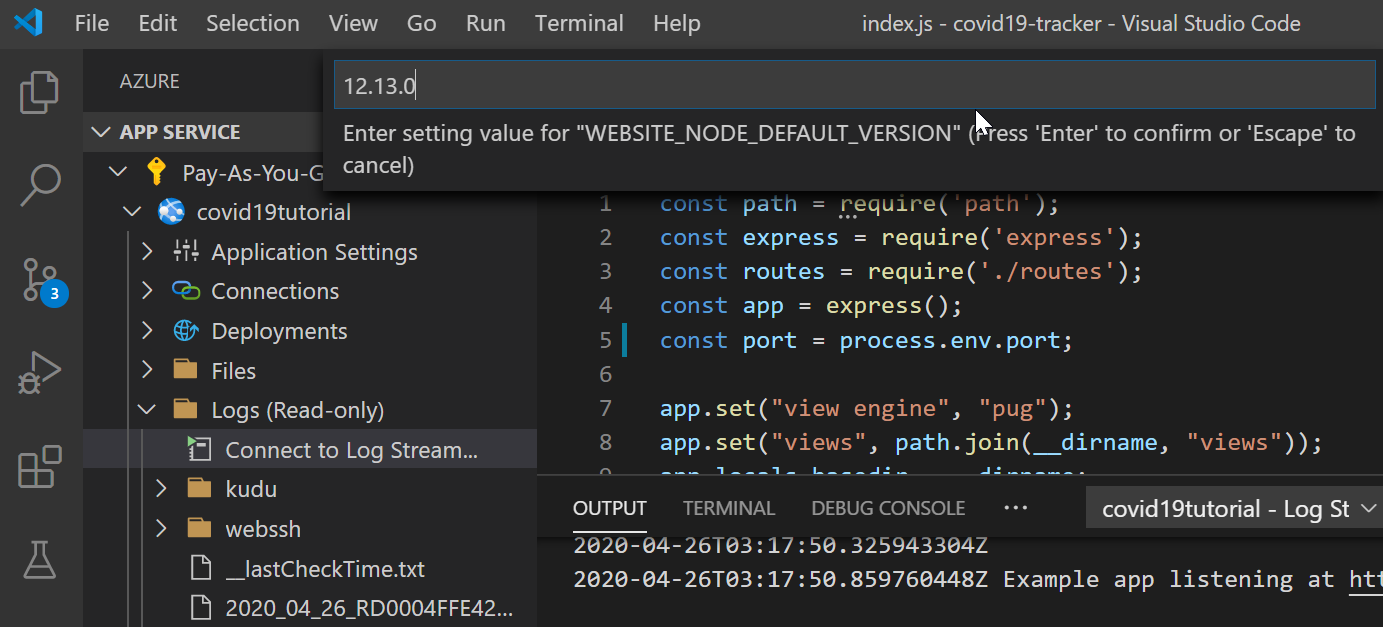
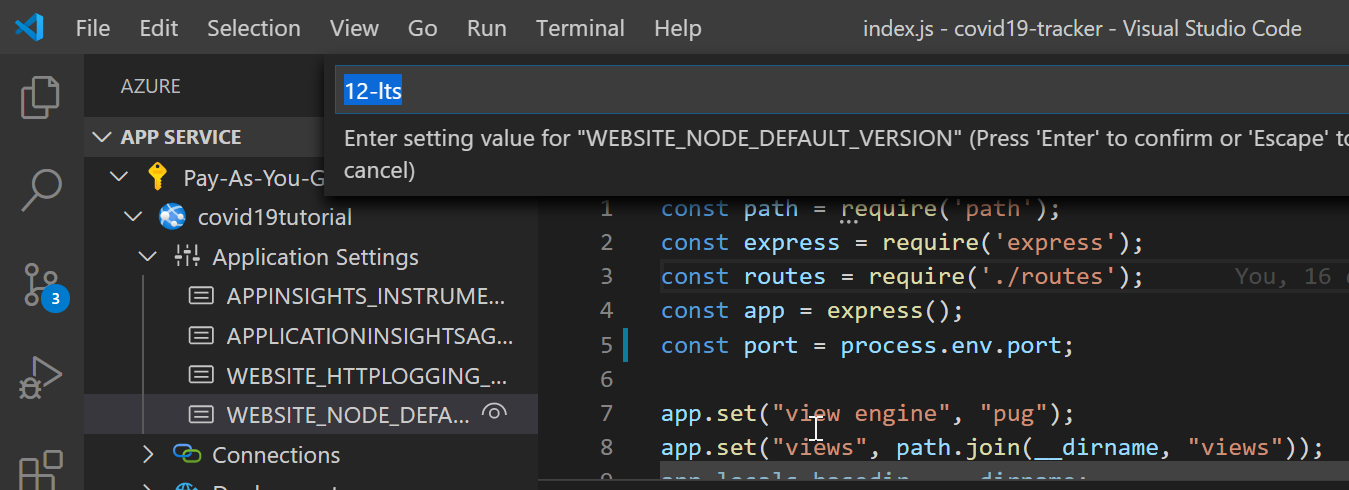
Update Blog “2020-04-08-get-the-drop-on-the-cloud-nodejs-and-azure”

diff --git a/src/pages/blog/2020-04-08-get-the-drop-on-the-cloud-nodejs-and-azure.md b/src/pages/blog/2020-04-08-get-the-drop-on-the-cloud-nodejs-and-azure.md
@@ -59,7 +59,11 @@ Since Azure's App Service uses dynamically configured Docker containers, we cann
 
 If you started the local server, stop it (Ctrl+C).
 
-Open the `src/index.js` file and change line 5 to `const port = process.env.PORT` and save your changes.
+Open the `src/index.js` file and change line 5 to 
+```
+const port = process.env.PORT
+```
+and save your changes.
 
 ## Deploying to Azure App Service
 
@@ -90,7 +94,7 @@ When deployment has completed, we should add an Application Setting that is requ
 * Expand your subscription, Web app, and right-click on Application settings
 * Choose *Add New Setting*
 * For your setting key, enter *WEBSITE_NODE_DEFAULT_VERSION*
-* For your setting value, enter *12.13.0*
+* For your setting value, enter *12-lts*
 
 ![Add WEBSITE_NODE_DEFAULT_VERSION application setting](/img/add-application-setting.png "Add WEBSITE_NODE_DEFAULT_VERSION application setting")
 
@@ -98,6 +102,11 @@ Adding a new application setting causes the App Service to restart, which can ta
 
 ### Monitoring your App with Logs
 
+Since it takes several minutes for your app to warm up after being deployed to Azure, it helps to monitor the Log Stream for your application. To do that, Expand your application's *Logs (Read-only)* folder and click *Connect to Log Stream...* An output panel in the terminal will allow you to monitor your application's progress.
+
+![](/img/monitor-application-logs.png)
+
+When you see *Example app listening at http://localhost:8080* your app is warmed up and ready to take some requests. 
 
 ### Troubleshooting
 
